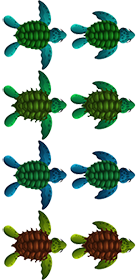
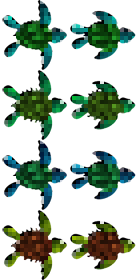
added new background, character, and hide ability

Changed region(s): [[0.0, 0.0, 0.9714, 1.0], [0.4857, 0.7714, 0.9714, 0.9714], [0.4857, 0.0286, 0.9714, 0.2286]]

diff --git a/index.html b/index.html
@@ -9,7 +9,7 @@
 <body>
     <h1>Transit Run</h1>
     <br><br><br><br><br><br><br><br><br><br><br><br><br><br><br><br><br><br><br><br><br><br>
-    <h3>Play with the arrow keys. Win by scoring 5 points. Don't colide more than 10 times.</h3>
+    <h3>Press up to cross and down to hide. Win by scoring 5 points. Don't colide more than 10 times.</h3>
     <div class="wrapper">
         <canvas id="canvas1"></canvas>
         <canvas id="canvas2"></canvas>

diff --git a/README.md b/README.md
@@ -1,23 +1,26 @@
 # transit-run
-This project was made for Hack Club: The Game's TransitTime boost (however I reshipped after the boost). It is highly based off of the popular web game Frogger (the old school version of Crossy Road!), where the player has to avoid getting hit by cars or trains. Control the frog using arrow keys (up, down, left, and right) and avoid getting hit by a bus or falling into the water. Win by reaching the other side of the road without getting run over! Get a score of 5 to win! If you collide with an object 10 times, the frog dies and you lose.
+This project was made for Hack Club: The Game's TransitTime boost (however I reshipped after the boost). It is highly based off of the popular web game Frogger (the old school version of Crossy Road!), where the player has to avoid getting hit by cars or trains. Control the cat using the up arrow and avoid getting hit by a bus or falling into the water. Press the down key to hide! Win by reaching the other side of the road without getting run over! Get a score of 5 to win! If you collide with an object 10 times, the cat dies and you lose.
 
 The following YouTube tutorial was used for the making of this project:
 https://www.youtube.com/watch?v=GXvNEwu9cgM
 
 Past the tutorial, the following was added:
 - Custom pixel art for water (the tutorial asset looked a little plain)
+- Custom cat character instead of a frog!
+- Pixelated background for an old-school arcade feel!
 - Conditions to win or lose (instead of an infinite game)
 - A "You won!" and "You lost!" screen
 - Ability to replay if won
+- Ability to press the down arrow to hide and avoid collision
 - Background color and instructions to play the game
 
 Note for reviewer:
-I used OBS to screenrecord me creating the pixel art for the river because of errors with Lapse (approved by phthallo [here](https://hackclub.slack.com/archives/C0A9XULS1SL/p1777941863720429?thread_ts=1777941463.876369&cid=C0A9XULS1SL)).
+I used OBS to screenrecord me creating the pixel art for the river and cat because of errors with Lapse (approved by phthallo [here](https://hackclub.slack.com/archives/C0A9XULS1SL/p1777941863720429?thread_ts=1777941463.876369&cid=C0A9XULS1SL)).
 
 The video is uploaded on Google Drive here (PixelRiver.mp4):
 https://drive.google.com/drive/folders/19AStwsOHGLQsX9DiH741He5CuD-0rBlN
 
-and YouTube here (unlisted):
+and YouTube here for the river (unlisted):
 https://youtu.be/IBLdLrnxSTI
 
 The video is 43 minutes long and I have 6 hours 25 minutes tracked on Hackatime for a total of 7 hours and 8 minutes on this project.
